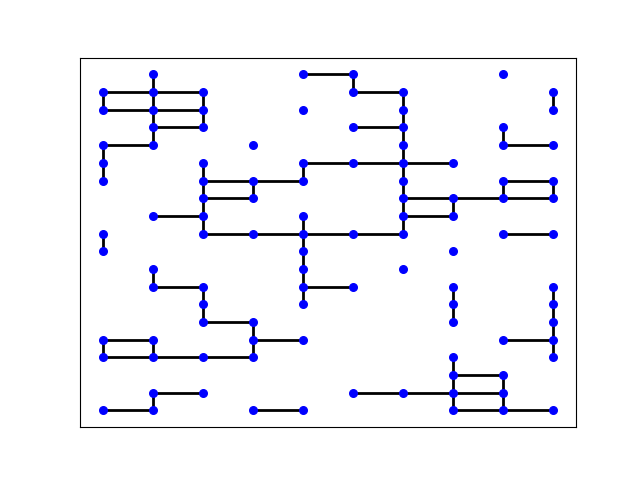
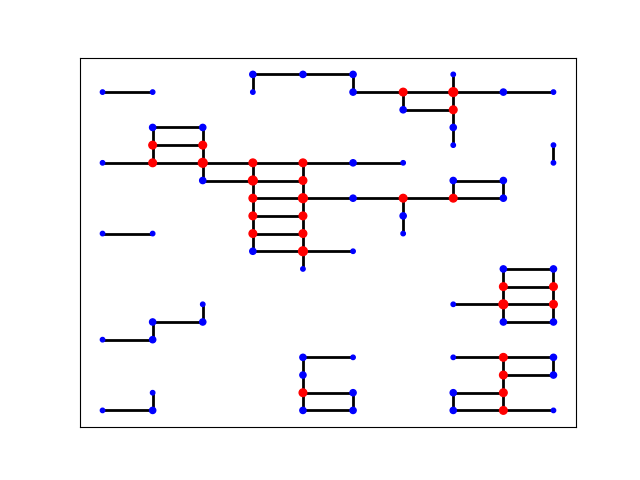
１つの点から多くの枝に伸びている点は色を変えて、大きく表示

diff --git a/python/Networkx/grid.py b/python/Networkx/grid.py
@@ -28,8 +28,13 @@ for j in range(m):
         if (i,j) in G and (i+1,j) in G:
             G.add_edge((i, j), (i+1, j))
 
+#ノードから出ているエッジが多いほどノードの描画サイズを大きくする
+node_size = [10*len(G[i]) for i in G.nodes()]
+#ノードから出ているエッジが３つ以上であれば赤色でノードを描画する
+node_color = ['red' if len(G[i]) >= 3 else 'blue' for i in G.nodes()]
+
 pos = {n: (n[1], n[0]) for n in G.nodes()}
-nx.draw_networkx_nodes(G, pos, node_size=30, alpha=1, node_color='blue')
+nx.draw_networkx_nodes(G, pos, node_size=node_size, alpha=1, node_color=node_color)
 nx.draw_networkx_edges(G, pos, label=1, edge_color="black", width=2)
 plt.savefig('graph_sample.png')
 
